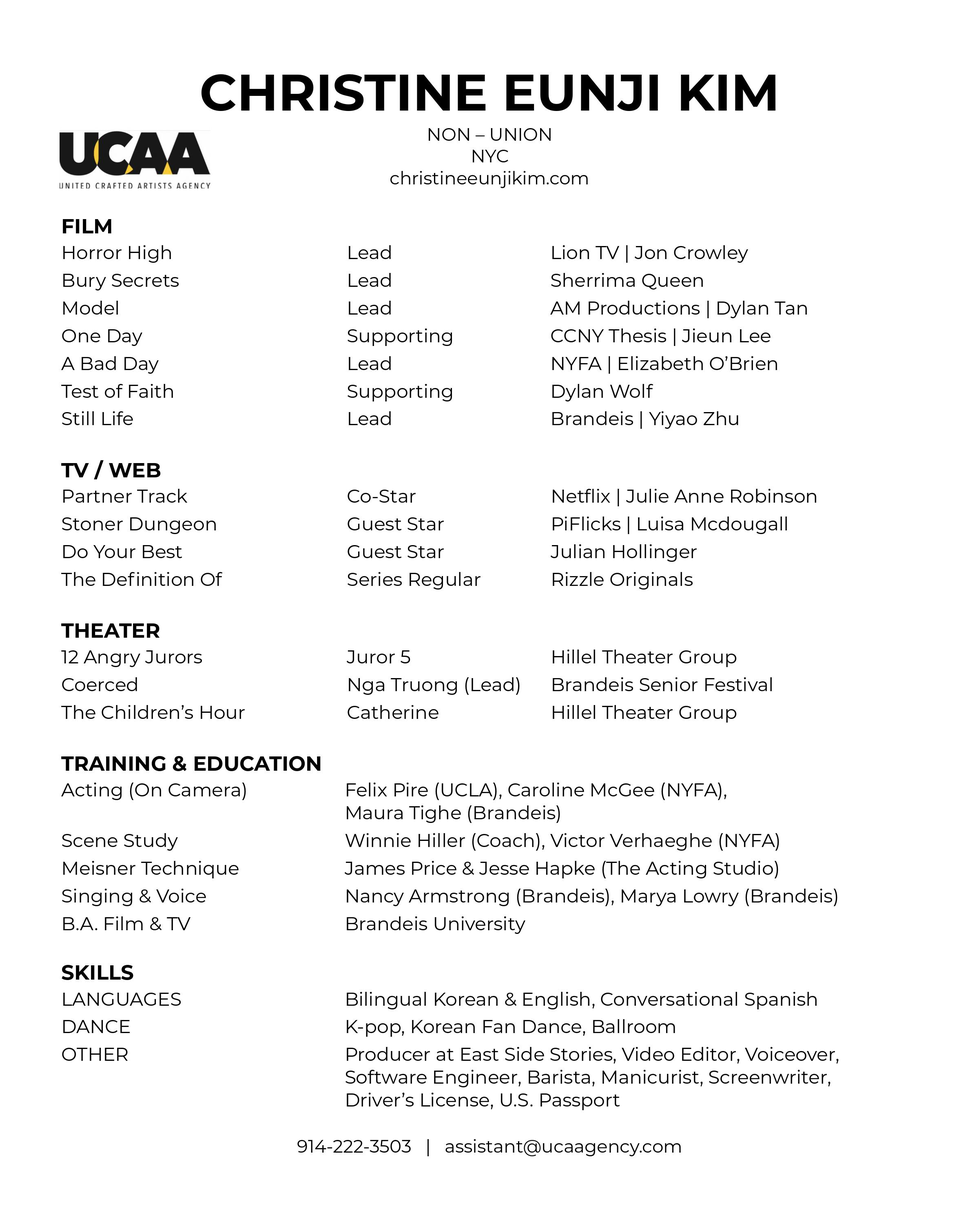
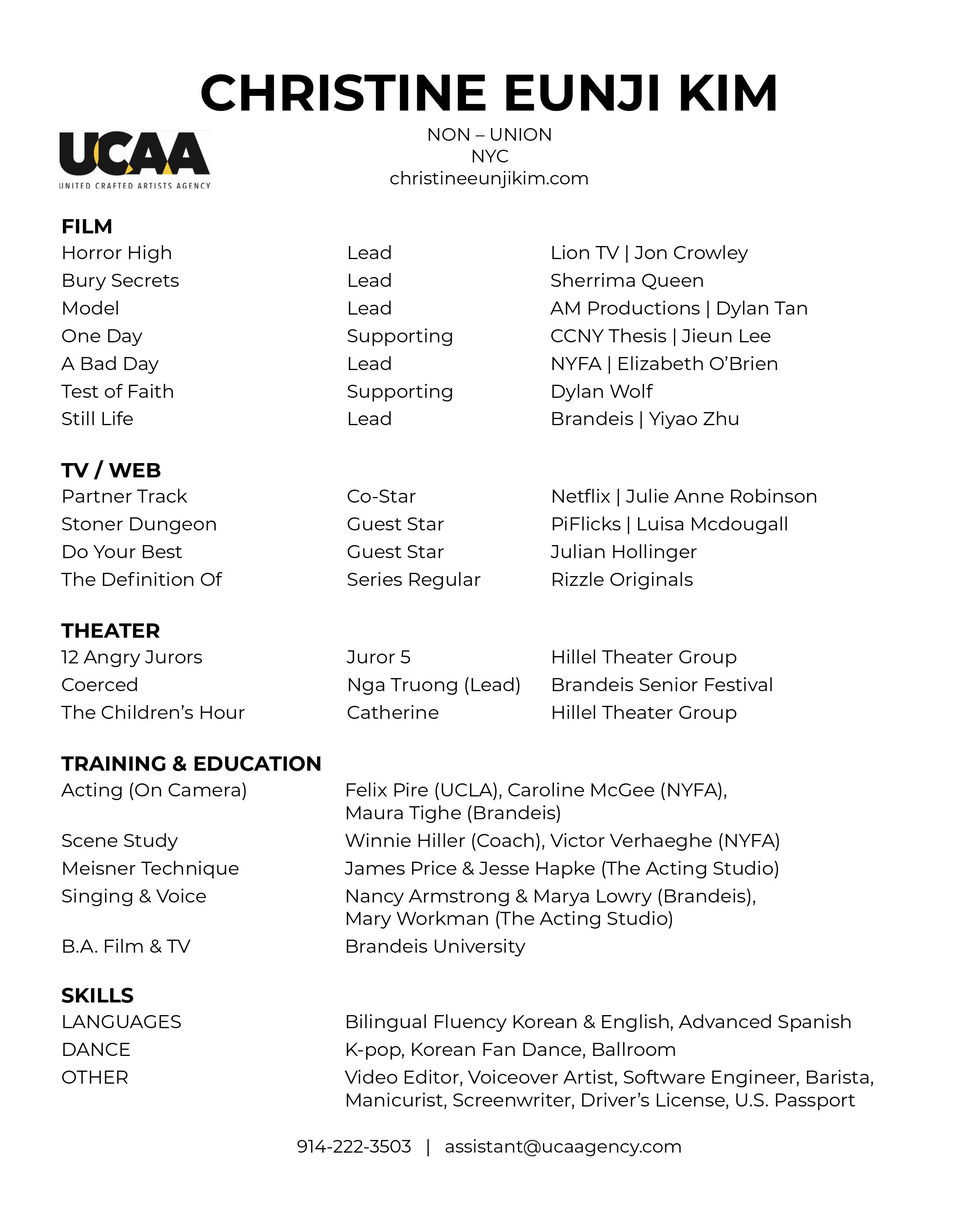
deploy: ctkim/Actor-Website@5a4e7e4faf4cafd0a1b5d47ecb1d0b8b9ca95c53

diff --git a/index.html b/index.html
@@ -2,7 +2,7 @@
 <script async src=https://cdnjs.cloudflare.com/ajax/libs/autotrack/2.4.1/autotrack.js integrity="sha512-HUmooslVKj4m6OBu0OgzjXXr+QuFYy/k7eLI5jdeEy/F4RSgMn6XRWRGkFi5IFaFgy7uFTkegp3Z0XnJf3Jq+g==" crossorigin=anonymous></script>
 <link rel=alternate href=/index.xml type=application/rss+xml title="Christine Eunji Kim | Actress | NYC"><link rel=feed href=/index.xml type=application/rss+xml title="Christine Eunji Kim | Actress | NYC"><link rel=manifest href=/site.webmanifest><link rel=icon type=image/png href=/img/icon.png><link rel=apple-touch-icon type=image/png href=/img/icon-192.png><link rel=canonical href=https://ctkim.github.io/><meta property="twitter:card" content="summary_large_image"><meta property="og:site_name" content="Christine Eunji Kim | Actress | NYC"><meta property="og:url" content="https://ctkim.github.io/"><meta property="og:title" content="Christine Eunji Kim | Actress | NYC"><meta property="og:description" content="Christine Kim"><meta property="og:image" content="https://ctkim.github.io/img/christine-kim-theatrical.jpeg"><meta property="twitter:image" content="https://ctkim.github.io/img/christine-kim-theatrical.jpeg"><meta property="og:locale" content="en-us"><meta property="og:updated_time" content="2021-02-01T16:57:36-04:00"><title>Christine Eunji Kim | Actress | NYC</title></head><body id=top data-spy=scroll data-target=#navbar-main data-offset=71><aside class=search-results id=search><div class=container><section class=search-header><div class="row no-gutters justify-content-between mb-3"><div class=col-6><h1>Search</h1></div><div class="col-6 col-search-close"><a class=js-search href=#><i class="fas fa-times-circle text-muted" aria-hidden=true></i></a></div></div><div id=search-box></div></section><section class=section-search-results><div id=search-hits></div></section></div></aside><nav class="navbar navbar-light fixed-top navbar-expand-lg py-0" id=navbar-main><div class=container><a class=navbar-brand href=/>Christine Eunji Kim | Actress | NYC</a>
 <button type=button class=navbar-toggler data-toggle=collapse data-target=#navbar aria-controls=navbar aria-expanded=false aria-label="Toggle navigation"><span><i class="fas fa-bars"></i></span></button><div class="collapse navbar-collapse" id=navbar><ul class="navbar-nav ml-auto"><li class=nav-item><a class="nav-link active" href=/ data-target=[]><span>Home</span></a></li><li class=nav-item><a class=nav-link href=/#about data-target=#about><span>About</span></a></li><li class=nav-item><a class=nav-link href=/#skills data-target=#skills><span>Resume</span></a></li><li class=nav-item><a class=nav-link href=/#experience data-target=#experience><span>Reel</span></a></li><li class=nav-item><a class=nav-link href=/#gallery data-target=#gallery><span>Gallery</span></a></li><li class=nav-item><a class=nav-link href=/#contact data-target=#contact><span>Contact</span></a></li></ul></div></div></nav><span class="js-widget-page d-none"></span><section id=hero class="home-section wg-hero" style=background-color:#fff><div class=container><div class=row><div class="col-md-6 order-md-1 text-center text-md-left align-self-center"><div><h2 id=christine-eunji-kim-is-a-korean-american-actress-based-in-new-york-city><strong>Christine Eunji Kim</strong> is a Korean American <strong>actress</strong> based in <strong>New York City</strong></h2></div><p class=mt-4><a href=/#skills class="btn btn-percent btn-primary btn-lg page-scroll">Resume</a>
-<a href=/#experience class="btn btn-lg btn-percent btn-primary page-scroll">Reel</a></p></div><div class="col-6 mx-auto col-md-6 order-md-2 hero-media"><img class=img-fluid src=/img/christine-kim-theatrical.jpeg alt></div></div></div></section><section id=about class="home-section wg-about"><div class=container><div class=row><div class=col-lg-5><div id=profile><img class=img-fluid src=/img/christine-kim-commercial.jpeg itemprop=image alt=Avatar></div><ul class="network-icon bg-white mx-2 py-2 text-center" aria-hidden=true><li class=mx-3><a itemprop=sameAs href=mailto:christineeunjikim@gmail.com><i class="fas fa-envelope"></i></a></li><li class=mx-3><a itemprop=sameAs href=https://www.instagram.com/christineeunjikim/ target=_blank rel=noopener><i class="fab fa-instagram"></i></a></li><li class=mx-3><a itemprop=sameAs href=https://www.imdb.com/name/nm7533437/ target=_blank rel=noopener><i class="fab fa-imdb"></i></a></li><li class=mx-3><a itemprop=sameAs href=https://resumes.actorsaccess.com/christineeunjikim target=_blank rel=noopener><i class="fas fa-font"></i></a></li><li class=mx-3><a itemprop=sameAs href=https://youtu.be/i9BOECS75t0 target=_blank rel=noopener><i class="fab fa-youtube"></i></a></li></ul></div><div class=col-lg-7 itemprop=description><div class=portrait-title><h2 itemprop=name>CHRISTINE EUNJI KIM</h2></div><link itemprop=url href><p>was born in South Korea and moved to NYC when she was 9 years old. Ever since she got her hands on her mom&rsquo;s old camcorder, she acted in her own short films with her uncooperative brother. She graduated from Brandeis University with degrees in Film & CS and has lived in Queens ever since.</p><p>Christine loves telling stories in any creative capacity. She is especially passionate about showing the world through the lens of a working class immigrant and highlighting the queer Asian American experience.</p><p>Currently, she splits her time between acting, producing, and working towards a Black Belt in Taekwondo.</p><div class=row><div class=col-md-7><h3>Training</h3><ul class="ul-edu fa-ul"><li><i class="fa-li fas fa-graduation-cap"></i><div class=description><p class=course>Meisner Technique</p><p class=institution>The Acting Studio</p></div></li><li><i class="fa-li fas fa-graduation-cap"></i><div class=description><p class=course>Scene Study</p><p class=institution>NYFA & Winnie Hiller</p></div></li><li><i class="fa-li fas fa-graduation-cap"></i><div class=description><p class=course>Acting (On-Camera)</p><p class=institution>NYFA & UCLA Extension</p></div></li><li><i class="fa-li fas fa-graduation-cap"></i><div class=description><p class=course>B.A. Film & Television</p><p class=institution>Brandeis University</p></div></li></ul></div><div class=col-md-5><h3>Skills</h3><ul class=ul-interests><li>Fluent in English & Korean</li><li>Conversational Spanish</li><li>Software Engineering</li><li>Producer @ <a href=https://www.eastsidestories.org/>ESS</a></li><li>Green Belt in Taekwondo</li></ul></div></div></div></div></div></section><section id=skills class="home-section wg-featurette"><div class=container><div class="row featurette"><div class="col-12 section-heading"><h1>Resume</h1></div><img src=doc/Christine_Eunji_Kim_Resume.jpg class=center>
+<a href=/#experience class="btn btn-lg btn-percent btn-primary page-scroll">Reel</a></p></div><div class="col-6 mx-auto col-md-6 order-md-2 hero-media"><img class=img-fluid src=/img/christine-kim-theatrical.jpeg alt></div></div></div></section><section id=about class="home-section wg-about"><div class=container><div class=row><div class=col-lg-5><div id=profile><img class=img-fluid src=/img/christine-kim-commercial.jpeg itemprop=image alt=Avatar></div><ul class="network-icon bg-white mx-2 py-2 text-center" aria-hidden=true><li class=mx-3><a itemprop=sameAs href=mailto:christineeunjikim@gmail.com><i class="fas fa-envelope"></i></a></li><li class=mx-3><a itemprop=sameAs href=https://www.instagram.com/christineeunjikim/ target=_blank rel=noopener><i class="fab fa-instagram"></i></a></li><li class=mx-3><a itemprop=sameAs href=https://www.imdb.com/name/nm7533437/ target=_blank rel=noopener><i class="fab fa-imdb"></i></a></li><li class=mx-3><a itemprop=sameAs href=https://resumes.actorsaccess.com/christineeunjikim target=_blank rel=noopener><i class="fas fa-font"></i></a></li><li class=mx-3><a itemprop=sameAs href=https://youtu.be/i9BOECS75t0 target=_blank rel=noopener><i class="fab fa-youtube"></i></a></li></ul></div><div class=col-lg-7 itemprop=description><div class=portrait-title><h2 itemprop=name>CHRISTINE EUNJI KIM</h2></div><link itemprop=url href><p>was born in South Korea and moved to NYC when she was 9 years old. Ever since she got her hands on her mom&rsquo;s old camcorder, she acted in her own short films with her uncooperative brother. She graduated from Brandeis University with degrees in Film & CS and has lived in Queens ever since.</p><p>Christine loves telling stories in any creative capacity. She is especially passionate about showing the world through the lens of a working class immigrant and highlighting the queer Asian American experience.</p><p>Currently, she splits her time between acting, producing, and working towards a Black Belt in Taekwondo.</p><div class=row><div class=col-md-7><h3>Training</h3><ul class="ul-edu fa-ul"><li><i class="fa-li fas fa-graduation-cap"></i><div class=description><p class=course>Meisner Technique</p><p class=institution>The Acting Studio</p></div></li><li><i class="fa-li fas fa-graduation-cap"></i><div class=description><p class=course>Scene Study</p><p class=institution>NYFA & Winnie Hiller</p></div></li><li><i class="fa-li fas fa-graduation-cap"></i><div class=description><p class=course>Acting (On-Camera)</p><p class=institution>NYFA & UCLA Extension</p></div></li><li><i class="fa-li fas fa-graduation-cap"></i><div class=description><p class=course>B.A. Film & Television</p><p class=institution>Brandeis University</p></div></li></ul></div><div class=col-md-5><h3>Skills</h3><ul class=ul-interests><li>Fluent in English & Korean</li><li>Advanced Proficiency in Spanish</li><li>Software Engineering</li><li>Producer @ <a href=https://www.eastsidestories.org/>ESS</a></li><li>Green Belt in Taekwondo</li></ul></div></div></div></div></div></section><section id=skills class="home-section wg-featurette"><div class=container><div class="row featurette"><div class="col-12 section-heading"><h1>Resume</h1></div><img src=doc/Christine_Eunji_Kim_Resume.jpg class=center>
 <img src=img/christine-kim-dark.jpg class=center><div class=col-12><br><a href=doc/Christine_Eunji_Kim_Resume.pdf download class="btn btn-primary btn-lg">Download Resume</a></div></div></section><section id=experience class="home-section wg-experience"><div class=container><div class=row><div class="col-12 text-center section-heading"><h1>Reel</h1></div></div><div class=videoWrapper><iframe width=560 height=315 allowfullscreen src=https://www.youtube.com/embed/i9BOECS75t0 frameborder=0 allow="accelerometer; autoplay; encrypted-media; gyroscope; picture-in-picture"></iframe></div></div></section><section id=gallery class="home-section wg-blank"><div class=container><div class=row><div class="col-12 section-heading text-center"><h1>Gallery</h1></div><div class=col-12><div class=gallery><a data-fancybox=gallery-gallery href=/home/gallery/gallery/1.jpeg><img src=/home/gallery/gallery/1_huc333e0dd5552af724eddc9cac914f4e0_273262_0x190_resize_q90_lanczos.jpeg alt></a>
 <a data-fancybox=gallery-gallery href=/home/gallery/gallery/2.jpeg><img src=/home/gallery/gallery/2_hu43db3b2d42fb7963c6e49e740ba1e8c1_281319_0x190_resize_q90_lanczos.jpeg alt></a>
 <a data-fancybox=gallery-gallery href=/home/gallery/gallery/3.jpg><img src=/home/gallery/gallery/3_hu3857a17d2ffcaf31335b677e09a3291c_984198_0x190_resize_q90_lanczos.jpg alt></a>
@@ -14,10 +14,7 @@
 <a data-fancybox=gallery-gallery href=/home/gallery/gallery/d.png><img src=/home/gallery/gallery/d_hue2d07968a8e0e3a33844ee7d34cc82d3_1606442_0x190_resize_lanczos_3.png alt></a>
 <a data-fancybox=gallery-gallery href=/home/gallery/gallery/g.png><img src=/home/gallery/gallery/g_hu6ac47613e06a1ce52c6415273cf0958e_2763504_0x190_resize_lanczos_3.png alt></a>
 <a data-fancybox=gallery-gallery href=/home/gallery/gallery/h.png><img src=/home/gallery/gallery/h_hu92793d7df9ea4315e81266db0cd68764_1660974_0x190_resize_lanczos_3.png alt></a>
-<a data-fancybox=gallery-gallery href=/home/gallery/gallery/i.jpg><img src=/home/gallery/gallery/i_hu6857fa580e1ebdbf21c4b388be9b55e2_1242199_0x190_resize_q90_lanczos.jpg alt></a></div></div></div></div></section><section id=contact class="home-section wg-contact"><div class=container><div class="row contact-widget"><div class="col-12 text-center section-heading"><h1>Contact</h1></div><div class=col-12></div><div class=col-12><div class=mb-3><form name=contact method=post action=https://formspree.io/findchristinekim@gmail.com><div class="form-group form-inline"><label class=sr-only for=inputName>Name</label>
-<input type=text name=name class="form-control rounded-0 w-100" id=inputName placeholder=Name required></div><div class="form-group form-inline"><label class=sr-only for=inputEmail>Email</label>
-<input type=email name=email class="form-control rounded-0 w-100" id=inputEmail placeholder=Email required></div><div class=form-group><label class=sr-only for=inputMessage>Message</label>
-<textarea name=message class="form-control rounded-0" id=inputMessage rows=7 placeholder=Message required></textarea></div><button type=submit class="btn btn-outline-primary btn-lg">Send</button></form></div></div></div></div></section><script src=https://cdnjs.cloudflare.com/ajax/libs/jquery/3.4.1/jquery.min.js integrity="sha256-CSXorXvZcTkaix6Yvo6HppcZGetbYMGWSFlBw8HfCJo=" crossorigin=anonymous></script>
+<a data-fancybox=gallery-gallery href=/home/gallery/gallery/i.jpg><img src=/home/gallery/gallery/i_hu6857fa580e1ebdbf21c4b388be9b55e2_1242199_0x190_resize_q90_lanczos.jpg alt></a></div></div></div></div></section><section id=contact class="home-section wg-contact"><div class=container><div class="row contact-widget"><div class="col-12 text-center section-heading"><h1>Contact</h1></div><div class=col-12></div><div class=col-12>NY Theatrical Representation | <b>Tonya Smith</b> <a href=mailto:assistant@ucaagency.com target=_blank>assistant@ucaagency.com</a><br>All Other Inquiries | <b>Christine Eunji Kim</b> <a href=mailto:christineeunjikim@gmail.com target=_blank>christineeunjikim@gmail.com</a></div></div></div></section><script src=https://cdnjs.cloudflare.com/ajax/libs/jquery/3.4.1/jquery.min.js integrity="sha256-CSXorXvZcTkaix6Yvo6HppcZGetbYMGWSFlBw8HfCJo=" crossorigin=anonymous></script>
 <script src=https://cdnjs.cloudflare.com/ajax/libs/jquery.imagesloaded/4.1.4/imagesloaded.pkgd.min.js integrity="sha256-lqvxZrPLtfffUl2G/e7szqSvPBILGbwmsGE1MKlOi0Q=" crossorigin=anonymous></script>
 <script src=https://cdnjs.cloudflare.com/ajax/libs/jquery.isotope/3.0.6/isotope.pkgd.min.js integrity="sha256-CBrpuqrMhXwcLLUd5tvQ4euBHCdh7wGlDfNz8vbu/iI=" crossorigin=anonymous></script>
 <script src=https://cdnjs.cloudflare.com/ajax/libs/fancybox/3.2.5/jquery.fancybox.min.js integrity="sha256-X5PoE3KU5l+JcX+w09p/wHl9AzK333C4hJ2I9S5mD4M=" crossorigin=anonymous></script>

diff --git a/authors/admin/index.html b/authors/admin/index.html
@@ -1,7 +1,7 @@
 <!doctype html><html lang=en-us><head><meta charset=utf-8><meta name=viewport content="width=device-width,initial-scale=1"><meta http-equiv=x-ua-compatible content="IE=edge"><meta name=generator content="Source Themes Academia 4.3.1"><meta name=generator content="Hugo 0.97.2"><meta name=author content="CHRISTINE EUNJI KIM"><meta name=description content="Christine Kim"><link rel=alternate hreflang=en-us href=https://ctkim.github.io/authors/admin/><meta name=theme-color content="#fc6f5c"><link rel=stylesheet href=https://cdnjs.cloudflare.com/ajax/libs/academicons/1.8.6/css/academicons.min.css integrity="sha256-uFVgMKfistnJAfoCUQigIl+JfUaP47GrRKjf6CTPVmw=" crossorigin=anonymous><link rel=stylesheet href=https://use.fontawesome.com/releases/v5.6.0/css/all.css integrity=sha384-aOkxzJ5uQz7WBObEZcHvV5JvRW3TUc2rNPA7pe3AwnsUohiw1Vj2Rgx2KSOkF5+h crossorigin=anonymous><link rel=stylesheet href=https://cdnjs.cloudflare.com/ajax/libs/fancybox/3.2.5/jquery.fancybox.min.css integrity="sha256-ygkqlh3CYSUri3LhQxzdcm0n1EQvH2Y+U5S2idbLtxs=" crossorigin=anonymous><link rel=stylesheet href=https://cdnjs.cloudflare.com/ajax/libs/highlight.js/9.15.6/styles/github.min.css crossorigin=anonymous title=hl-light><link rel=stylesheet href=https://cdnjs.cloudflare.com/ajax/libs/highlight.js/9.15.6/styles/dracula.min.css crossorigin=anonymous title=hl-dark disabled><link rel=stylesheet href="https://fonts.googleapis.com/css?family=Lato:400,700|Open+Sans|Roboto+Mono&display=swap"><link rel=stylesheet href=/css/academia.min.cb10ac53c3eae33c077bdbb05a8d0a30.css><script>window.ga=window.ga||function(){(ga.q=ga.q||[]).push(arguments)},ga.l=+new Date,ga("create","UA-162090783-1","auto"),ga("require","eventTracker"),ga("require","outboundLinkTracker"),ga("require","urlChangeTracker"),ga("send","pageview")</script><script async src=//www.google-analytics.com/analytics.js></script>
 <script async src=https://cdnjs.cloudflare.com/ajax/libs/autotrack/2.4.1/autotrack.js integrity="sha512-HUmooslVKj4m6OBu0OgzjXXr+QuFYy/k7eLI5jdeEy/F4RSgMn6XRWRGkFi5IFaFgy7uFTkegp3Z0XnJf3Jq+g==" crossorigin=anonymous></script>
 <link rel=alternate href=/authors/admin/index.xml type=application/rss+xml title="Christine Eunji Kim | Actress | NYC"><link rel=feed href=/authors/admin/index.xml type=application/rss+xml title="Christine Eunji Kim | Actress | NYC"><link rel=manifest href=/site.webmanifest><link rel=icon type=image/png href=/img/icon.png><link rel=apple-touch-icon type=image/png href=/img/icon-192.png><link rel=canonical href=https://ctkim.github.io/authors/admin/><meta property="twitter:card" content="summary_large_image"><meta property="og:site_name" content="Christine Eunji Kim | Actress | NYC"><meta property="og:url" content="https://ctkim.github.io/authors/admin/"><meta property="og:title" content=" | Christine Eunji Kim | Actress | NYC"><meta property="og:description" content="Christine Kim"><meta property="og:image" content="https://ctkim.github.io/img/christine-kim-theatrical.jpeg"><meta property="twitter:image" content="https://ctkim.github.io/img/christine-kim-theatrical.jpeg"><meta property="og:locale" content="en-us"><meta property="og:updated_time" content="2021-02-01T16:57:36-04:00"><title>| Christine Eunji Kim | Actress | NYC</title></head><body id=top data-spy=scroll data-target=#TableOfContents data-offset=71><aside class=search-results id=search><div class=container><section class=search-header><div class="row no-gutters justify-content-between mb-3"><div class=col-6><h1>Search</h1></div><div class="col-6 col-search-close"><a class=js-search href=#><i class="fas fa-times-circle text-muted" aria-hidden=true></i></a></div></div><div id=search-box></div></section><section class=section-search-results><div id=search-hits></div></section></div></aside><nav class="navbar navbar-light fixed-top navbar-expand-lg py-0" id=navbar-main><div class=container><a class=navbar-brand href=/>Christine Eunji Kim | Actress | NYC</a>
-<button type=button class=navbar-toggler data-toggle=collapse data-target=#navbar aria-controls=navbar aria-expanded=false aria-label="Toggle navigation"><span><i class="fas fa-bars"></i></span></button><div class="collapse navbar-collapse" id=navbar><ul class="navbar-nav ml-auto"><li class=nav-item><a class="nav-link active" href=/><span>Home</span></a></li><li class=nav-item><a class=nav-link href=/#about><span>About</span></a></li><li class=nav-item><a class=nav-link href=/#skills><span>Resume</span></a></li><li class=nav-item><a class=nav-link href=/#experience><span>Reel</span></a></li><li class=nav-item><a class=nav-link href=/#gallery><span>Gallery</span></a></li><li class=nav-item><a class=nav-link href=/#contact><span>Contact</span></a></li></ul></div></div></nav><section id=profile-page class=pt-5><div class=container><div class=row><div class=col-lg-5><div id=profile><img class=img-fluid src=/img/christine-kim-theatrical.jpeg itemprop=image alt=Avatar></div><ul class="network-icon bg-white mx-2 py-2 text-center" aria-hidden=true><li class=mx-3><a itemprop=sameAs href=mailto:christineeunjikim@gmail.com><i class="fas fa-envelope"></i></a></li><li class=mx-3><a itemprop=sameAs href=https://www.instagram.com/christineeunjikim/ target=_blank rel=noopener><i class="fab fa-instagram"></i></a></li><li class=mx-3><a itemprop=sameAs href=https://www.imdb.com/name/nm7533437/ target=_blank rel=noopener><i class="fab fa-imdb"></i></a></li><li class=mx-3><a itemprop=sameAs href=https://resumes.actorsaccess.com/christineeunjikim target=_blank rel=noopener><i class="fas fa-font"></i></a></li><li class=mx-3><a itemprop=sameAs href=https://youtu.be/i9BOECS75t0 target=_blank rel=noopener><i class="fab fa-youtube"></i></a></li></ul></div><div class=col-lg-7 itemprop=description><div class=portrait-title><h2 itemprop=name>CHRISTINE EUNJI KIM</h2></div><link itemprop=url href><p>was born in South Korea and moved to NYC when she was 9 years old. Ever since she got her hands on her mom&rsquo;s old camcorder, she acted in her own short films with her uncooperative brother. She graduated from Brandeis University with degrees in Film & CS and has lived in Queens ever since.</p><p>Christine loves telling stories in any creative capacity. She is especially passionate about showing the world through the lens of a working class immigrant and highlighting the queer Asian American experience.</p><p>Currently, she splits her time between acting, producing, and working towards a Black Belt in Taekwondo.</p><div class=row><div class=col-md-7><h3>Training</h3><ul class="ul-edu fa-ul"><li><i class="fa-li fas fa-graduation-cap"></i><div class=description><p class=course>Meisner Technique</p><p class=institution>The Acting Studio</p></div></li><li><i class="fa-li fas fa-graduation-cap"></i><div class=description><p class=course>Scene Study</p><p class=institution>NYFA & Winnie Hiller</p></div></li><li><i class="fa-li fas fa-graduation-cap"></i><div class=description><p class=course>Acting (On-Camera)</p><p class=institution>NYFA & UCLA Extension</p></div></li><li><i class="fa-li fas fa-graduation-cap"></i><div class=description><p class=course>B.A. Film & Television</p><p class=institution>Brandeis University</p></div></li></ul></div><div class=col-md-5><h3>Skills</h3><ul class=ul-interests><li>Fluent in English & Korean</li><li>Conversational Spanish</li><li>Software Engineering</li><li>Producer @ <a href=https://www.eastsidestories.org/>ESS</a></li><li>Green Belt in Taekwondo</li></ul></div></div></div></div><div class=article-widget><div class=hr-light></div><h3>Latest</h3><ul><li><a href=/post/210201/>Finding My Niche on Clubhouse</a></li><li><a href=/post/201212/>Tired Of Virtual Film Shoots?</a></li><li><a href=/post/200830/>Tips For The Perfect Zoom Audition</a></li><li><a href=/post/200614/>Filmmaking During A Pandemic</a></li><li><a href=/post/200319/>Slate Your Name, Please</a></li></ul></div></div></section><script src=https://cdnjs.cloudflare.com/ajax/libs/jquery/3.4.1/jquery.min.js integrity="sha256-CSXorXvZcTkaix6Yvo6HppcZGetbYMGWSFlBw8HfCJo=" crossorigin=anonymous></script>
+<button type=button class=navbar-toggler data-toggle=collapse data-target=#navbar aria-controls=navbar aria-expanded=false aria-label="Toggle navigation"><span><i class="fas fa-bars"></i></span></button><div class="collapse navbar-collapse" id=navbar><ul class="navbar-nav ml-auto"><li class=nav-item><a class="nav-link active" href=/><span>Home</span></a></li><li class=nav-item><a class=nav-link href=/#about><span>About</span></a></li><li class=nav-item><a class=nav-link href=/#skills><span>Resume</span></a></li><li class=nav-item><a class=nav-link href=/#experience><span>Reel</span></a></li><li class=nav-item><a class=nav-link href=/#gallery><span>Gallery</span></a></li><li class=nav-item><a class=nav-link href=/#contact><span>Contact</span></a></li></ul></div></div></nav><section id=profile-page class=pt-5><div class=container><div class=row><div class=col-lg-5><div id=profile><img class=img-fluid src=/img/christine-kim-theatrical.jpeg itemprop=image alt=Avatar></div><ul class="network-icon bg-white mx-2 py-2 text-center" aria-hidden=true><li class=mx-3><a itemprop=sameAs href=mailto:christineeunjikim@gmail.com><i class="fas fa-envelope"></i></a></li><li class=mx-3><a itemprop=sameAs href=https://www.instagram.com/christineeunjikim/ target=_blank rel=noopener><i class="fab fa-instagram"></i></a></li><li class=mx-3><a itemprop=sameAs href=https://www.imdb.com/name/nm7533437/ target=_blank rel=noopener><i class="fab fa-imdb"></i></a></li><li class=mx-3><a itemprop=sameAs href=https://resumes.actorsaccess.com/christineeunjikim target=_blank rel=noopener><i class="fas fa-font"></i></a></li><li class=mx-3><a itemprop=sameAs href=https://youtu.be/i9BOECS75t0 target=_blank rel=noopener><i class="fab fa-youtube"></i></a></li></ul></div><div class=col-lg-7 itemprop=description><div class=portrait-title><h2 itemprop=name>CHRISTINE EUNJI KIM</h2></div><link itemprop=url href><p>was born in South Korea and moved to NYC when she was 9 years old. Ever since she got her hands on her mom&rsquo;s old camcorder, she acted in her own short films with her uncooperative brother. She graduated from Brandeis University with degrees in Film & CS and has lived in Queens ever since.</p><p>Christine loves telling stories in any creative capacity. She is especially passionate about showing the world through the lens of a working class immigrant and highlighting the queer Asian American experience.</p><p>Currently, she splits her time between acting, producing, and working towards a Black Belt in Taekwondo.</p><div class=row><div class=col-md-7><h3>Training</h3><ul class="ul-edu fa-ul"><li><i class="fa-li fas fa-graduation-cap"></i><div class=description><p class=course>Meisner Technique</p><p class=institution>The Acting Studio</p></div></li><li><i class="fa-li fas fa-graduation-cap"></i><div class=description><p class=course>Scene Study</p><p class=institution>NYFA & Winnie Hiller</p></div></li><li><i class="fa-li fas fa-graduation-cap"></i><div class=description><p class=course>Acting (On-Camera)</p><p class=institution>NYFA & UCLA Extension</p></div></li><li><i class="fa-li fas fa-graduation-cap"></i><div class=description><p class=course>B.A. Film & Television</p><p class=institution>Brandeis University</p></div></li></ul></div><div class=col-md-5><h3>Skills</h3><ul class=ul-interests><li>Fluent in English & Korean</li><li>Advanced Proficiency in Spanish</li><li>Software Engineering</li><li>Producer @ <a href=https://www.eastsidestories.org/>ESS</a></li><li>Green Belt in Taekwondo</li></ul></div></div></div></div><div class=article-widget><div class=hr-light></div><h3>Latest</h3><ul><li><a href=/post/210201/>Finding My Niche on Clubhouse</a></li><li><a href=/post/201212/>Tired Of Virtual Film Shoots?</a></li><li><a href=/post/200830/>Tips For The Perfect Zoom Audition</a></li><li><a href=/post/200614/>Filmmaking During A Pandemic</a></li><li><a href=/post/200319/>Slate Your Name, Please</a></li></ul></div></div></section><script src=https://cdnjs.cloudflare.com/ajax/libs/jquery/3.4.1/jquery.min.js integrity="sha256-CSXorXvZcTkaix6Yvo6HppcZGetbYMGWSFlBw8HfCJo=" crossorigin=anonymous></script>
 <script src=https://cdnjs.cloudflare.com/ajax/libs/jquery.imagesloaded/4.1.4/imagesloaded.pkgd.min.js integrity="sha256-lqvxZrPLtfffUl2G/e7szqSvPBILGbwmsGE1MKlOi0Q=" crossorigin=anonymous></script>
 <script src=https://cdnjs.cloudflare.com/ajax/libs/jquery.isotope/3.0.6/isotope.pkgd.min.js integrity="sha256-CBrpuqrMhXwcLLUd5tvQ4euBHCdh7wGlDfNz8vbu/iI=" crossorigin=anonymous></script>
 <script src=https://cdnjs.cloudflare.com/ajax/libs/fancybox/3.2.5/jquery.fancybox.min.js integrity="sha256-X5PoE3KU5l+JcX+w09p/wHl9AzK333C4hJ2I9S5mD4M=" crossorigin=anonymous></script>
